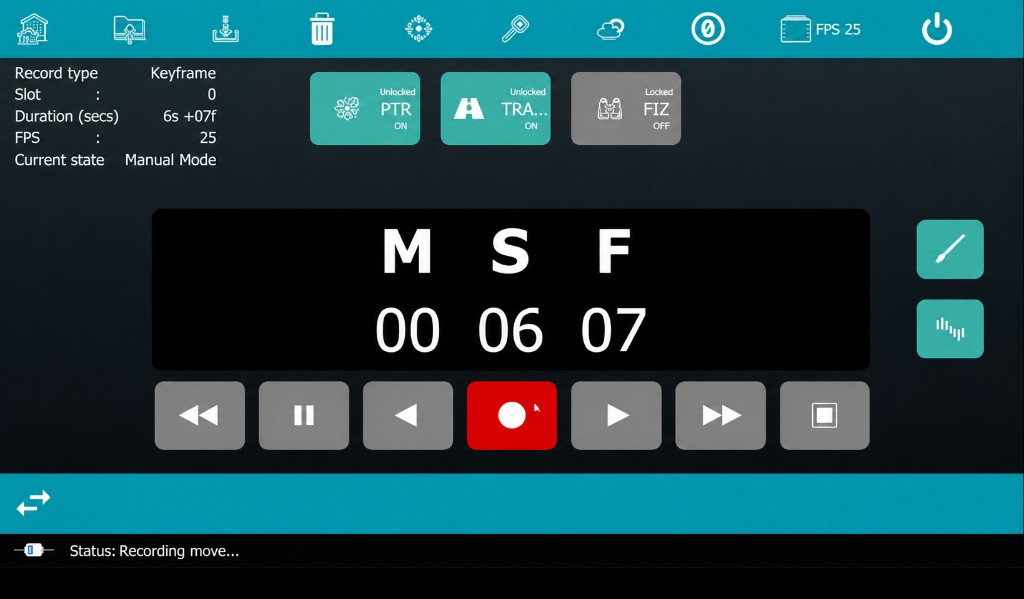
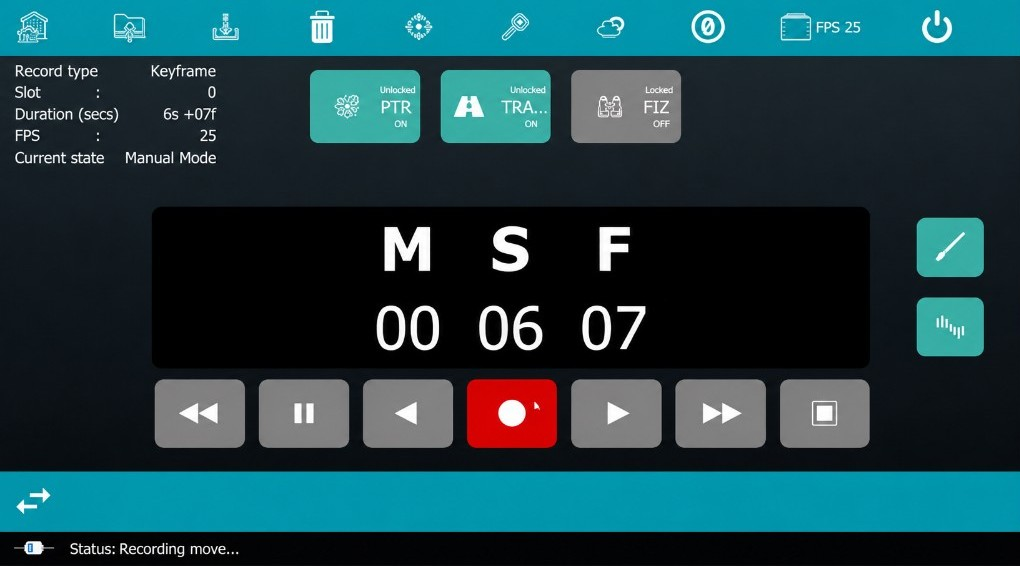
feat: updated product images

diff --git a/lib/content.ts b/lib/content.ts
@@ -305,10 +305,6 @@ export const productsPage = {
           src: '/products/tv-camera-ui-record.jpg',
           alt: 'Qt/QML desktop app recording interface',
         },
-        {
-          src: '/products/tv-camera-ui-playback.jpg',
-          alt: 'Qt/QML desktop app playback control interface',
-        },
       ],
     },
     {
